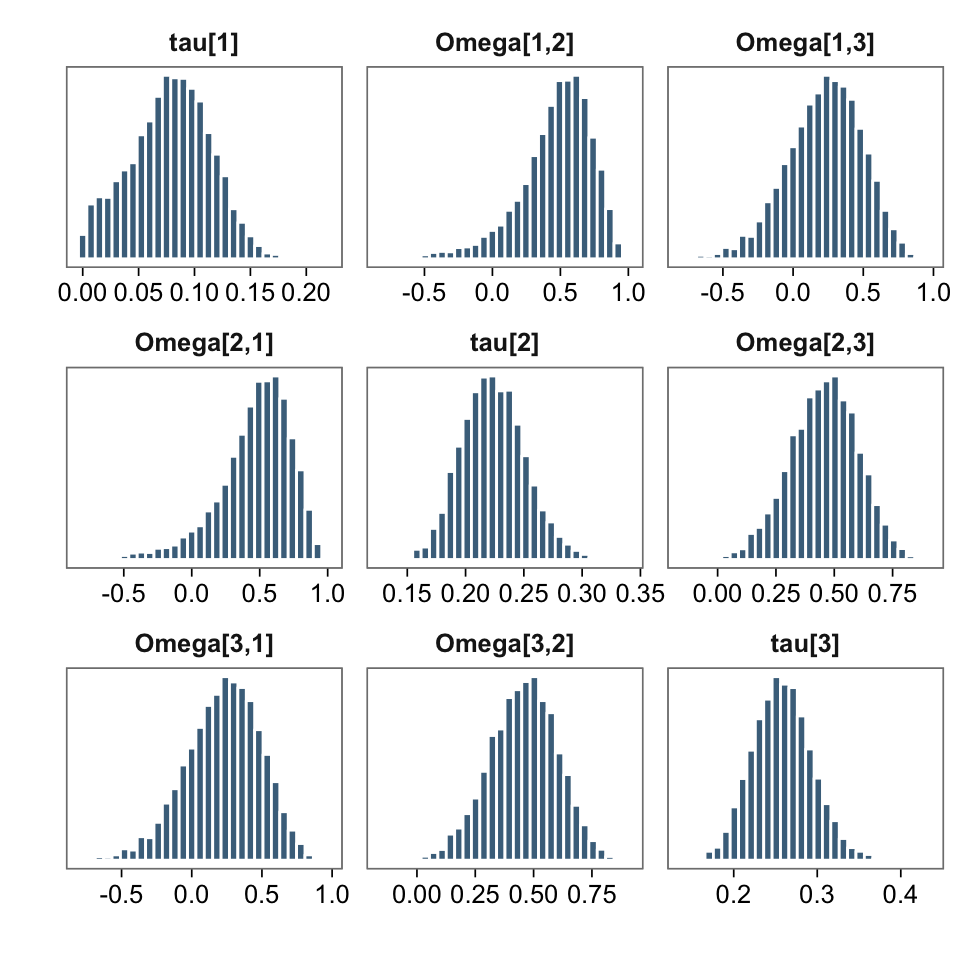
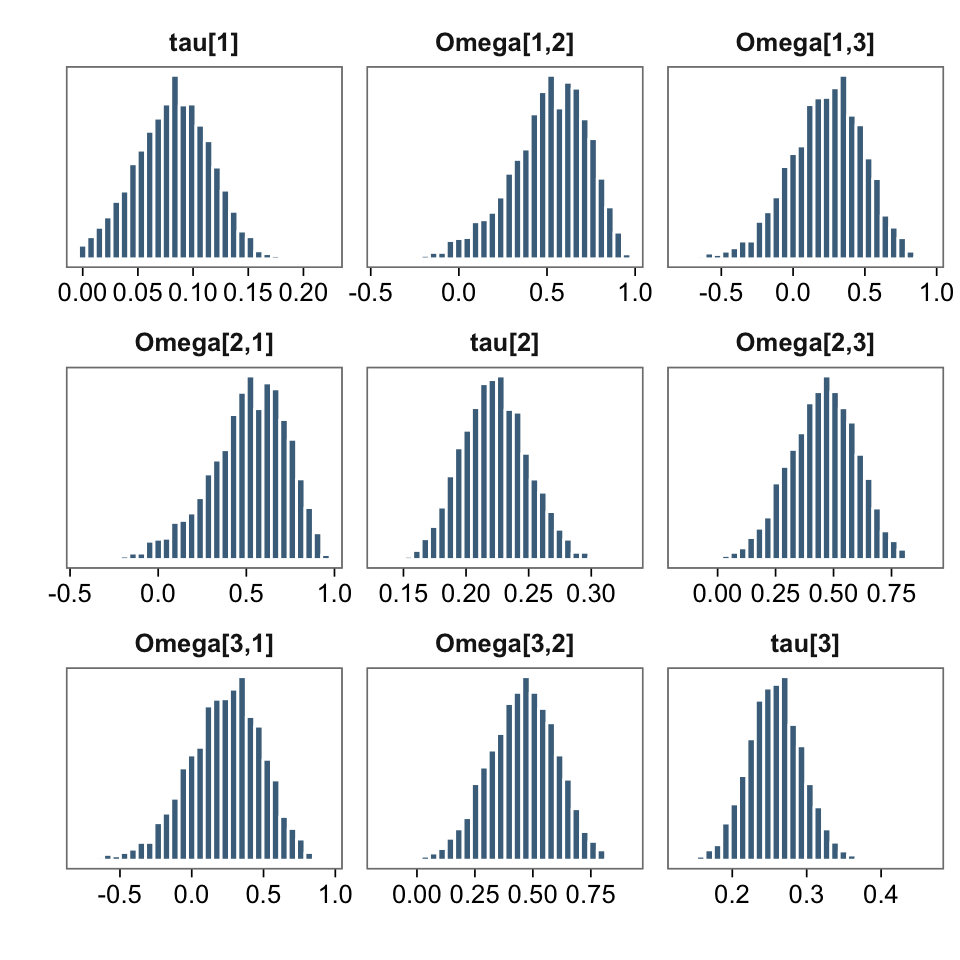
Website

diff --git a/index.html b/index.html
@@ -11,7 +11,7 @@
 
 <meta name="author" content="Matti Vuorre" />
 
-<meta name="date" content="2016-07-12" />
+<meta name="date" content="2016-07-14" />
 
 <title>bmlm: Multilevel Mediation Modeling with Stan</title>
 
@@ -24,6 +24,7 @@
 <script src="site_libs/bootstrap-3.3.5/js/bootstrap.min.js"></script>
 <script src="site_libs/bootstrap-3.3.5/shim/html5shiv.min.js"></script>
 <script src="site_libs/bootstrap-3.3.5/shim/respond.min.js"></script>
+<link href="site_libs/font-awesome-4.5.0/css/font-awesome.min.css" rel="stylesheet" />
 
 
 <style type="text/css">code{white-space: pre;}</style>
@@ -303,9 +304,21 @@ div.tocify {
         <li>
   <a href="index.html">Tutorial</a>
 </li>
+<li>
+  <a href="install.html">Installing</a>
+</li>
+<li>
+  <a href="model.html">Model details</a>
+</li>
       </ul>
       <ul class="nav navbar-nav navbar-right">
-        
+        <li>
+  <a href="https://github.com/mvuorre/bmlm">
+    <span class="fa fa-github fa-lg"></span>
+     
+    Source
+  </a>
+</li>
       </ul>
     </div><!--/.nav-collapse -->
   </div><!--/.container -->
@@ -317,7 +330,7 @@ div.tocify {
 
 <h1 class="title toc-ignore">bmlm: Multilevel Mediation Modeling with Stan</h1>
 <h4 class="author"><em>Matti Vuorre</em></h4>
-<h4 class="date"><em>2016-07-12</em></h4>
+<h4 class="date"><em>2016-07-14</em></h4>
 
 </div>
 
@@ -332,7 +345,10 @@ div.tocify {
 <h2>Pre-requisites</h2>
 <ol style="list-style-type: decimal">
 <li>Please ensure you have the <a href="https://cran.r-project.org/">latest version of R</a> installed.</li>
-<li>This package depends on <a href="http://mc-stan.org/">Stan</a>. Please see <a href="http://mc-stan.org/interfaces/rstan.html">here</a> for how to install the RStan interface.</li>
+<li>This package depends on <a href="http://mc-stan.org/">Stan</a>. Please see <a href="http://mc-stan.org/interfaces/rstan.html">here</a> for how to install the RStan interface.
+<ul>
+<li><a href="install.html">Our RStan installation instructions</a> for Windows (7)</li>
+</ul></li>
 <li>Currently, bmlm is only available on GitHub, and therefore requires <a href="https://cran.r-project.org/web/packages/devtools/index.html">devtools</a> for installation. If you don’t have the devtools package installed in R, install it by running the following code in the R console:</li>
 </ol>
 <div class="sourceCode"><pre class="sourceCode r"><code class="sourceCode r"><span class="kw">install.packages</span>(<span class="st">&quot;devtools&quot;</span>)</code></pre></div>
@@ -543,7 +559,7 @@ fit &lt;-<span class="st"> </span><span class="kw">mlm</span>(<span class="dt">d
            <span class="dt">x =</span> <span class="st">&quot;fwkstrs_cw&quot;</span>,
            <span class="dt">m =</span> <span class="st">&quot;fwkdis_cw&quot;</span>,
            <span class="dt">y =</span> <span class="st">&quot;freldis_cw&quot;</span>,
-           <span class="dt">iter =</span> <span class="dv">4000</span>)</code></pre></div>
+           <span class="dt">iter =</span> <span class="dv">2000</span>)</code></pre></div>
 <p>The main arguments to <code>mlm()</code> are <code>d</code> (a <code>data.frame</code>), which here was set to <code>BLch9</code>. The user also needs to specify which columns contain the variables needed for the mediation model, unless they are already named <code>id</code>, <code>x</code>, <code>m</code>, and <code>y</code>:</p>
 <ul>
 <li><code>id</code> is a column of participant IDs in the provided <code>data.frame</code>.</li>
@@ -551,7 +567,7 @@ fit &lt;-<span class="st"> </span><span class="kw">mlm</span>(<span class="dt">d
 <li><code>m</code> is the mediator variable.</li>
 <li><code>y</code> is the outcome variable.</li>
 </ul>
-<p>There are various additional arguments to the above command. Most notably, the <code>iter = 4000</code> specified that Stan should draw 4000 samples from the posterior distribution, for each MCMC chain. The default is to use 4 chains. Further, Stan’s MCMC algorithms use a portion of the samples as warmup to adjust various underlying parameters. The default of one half was used for this example.</p>
+<p>There are various additional arguments to the above command. Most notably, the <code>iter = 2000</code> specified the number of samples to draw from the posterior distribution, for each MCMC chain. The default is to use 4 chains. Further, Stan’s MCMC algorithms use a portion of the samples as warmup to adjust various underlying parameters. The default of one half was used for this example.</p>
 <p>Stan’s MCMC procedures are very efficient, but estimating the model with large datasets will take a while. This example model (2100 rows of data) takes about 45 seconds on a desktop Mac (8GB RAM, 4ghz Intel i7).</p>
 </div>
 <div id="summarize-fitted-model" class="section level2">
@@ -583,8 +599,8 @@ fit &lt;-<span class="st"> </span><span class="kw">mlm</span>(<span class="dt">d
 <td align="right">0.19</td>
 <td align="right">0.13</td>
 <td align="right">0.25</td>
-<td align="right">1.000000</td>
-<td align="right">4454</td>
+<td align="right">1.00000</td>
+<td align="right">2106</td>
 <td align="right">1</td>
 </tr>
 <tr class="even">
@@ -594,8 +610,8 @@ fit &lt;-<span class="st"> </span><span class="kw">mlm</span>(<span class="dt">d
 <td align="right">0.15</td>
 <td align="right">0.10</td>
 <td align="right">0.20</td>
-<td align="right">1.000000</td>
-<td align="right">4000</td>
+<td align="right">1.00000</td>
+<td align="right">2077</td>
 <td align="right">1</td>
 </tr>
 <tr class="odd">
@@ -603,10 +619,10 @@ fit &lt;-<span class="st"> </span><span class="kw">mlm</span>(<span class="dt">d
 <td align="right">0.10</td>
 <td align="right">0.02</td>
 <td align="right">0.10</td>
-<td align="right">0.07</td>
+<td align="right">0.06</td>
 <td align="right">0.14</td>
-<td align="right">1.000000</td>
-<td align="right">8000</td>
+<td align="right">1.00000</td>
+<td align="right">4000</td>
 <td align="right">1</td>
 </tr>
 <tr class="even">
@@ -616,8 +632,8 @@ fit &lt;-<span class="st"> </span><span class="kw">mlm</span>(<span class="dt">d
 <td align="right">0.05</td>
 <td align="right">0.03</td>
 <td align="right">0.08</td>
-<td align="right">1.000000</td>
-<td align="right">3138</td>
+<td align="right">1.00000</td>
+<td align="right">1902</td>
 <td align="right">1</td>
 </tr>
 <tr class="odd">
@@ -626,9 +642,9 @@ fit &lt;-<span class="st"> </span><span class="kw">mlm</span>(<span class="dt">d
 <td align="right">0.03</td>
 <td align="right">0.16</td>
 <td align="right">0.12</td>
-<td align="right">0.20</td>
-<td align="right">1.000000</td>
-<td align="right">5791</td>
+<td align="right">0.21</td>
+<td align="right">1.00000</td>
+<td align="right">4000</td>
 <td align="right">1</td>
 </tr>
 <tr class="even">
@@ -638,8 +654,8 @@ fit &lt;-<span class="st"> </span><span class="kw">mlm</span>(<span class="dt">d
 <td align="right">0.34</td>
 <td align="right">0.23</td>
 <td align="right">0.49</td>
-<td align="right">1.000000</td>
-<td align="right">3818</td>
+<td align="right">1.00000</td>
+<td align="right">1977</td>
 <td align="right">1</td>
 </tr>
 <tr class="odd">
@@ -649,19 +665,19 @@ fit &lt;-<span class="st"> </span><span class="kw">mlm</span>(<span class="dt">d
 <td align="right">0.03</td>
 <td align="right">0.01</td>
 <td align="right">0.04</td>
-<td align="right">0.997375</td>
-<td align="right">3018</td>
+<td align="right">0.99925</td>
+<td align="right">1604</td>
 <td align="right">1</td>
 </tr>
 <tr class="even">
 <td align="left">corrab</td>
 <td align="right">0.45</td>
-<td align="right">0.15</td>
+<td align="right">0.14</td>
 <td align="right">0.46</td>
-<td align="right">0.19</td>
+<td align="right">0.20</td>
 <td align="right">0.69</td>
-<td align="right">0.997375</td>
-<td align="right">2733</td>
+<td align="right">0.99925</td>
+<td align="right">1229</td>
 <td align="right">1</td>
 </tr>
 </tbody>
@@ -729,13 +745,13 @@ Varying effects standard deviations (tau) and correlations (Omega).
 <h2>Person-specific effects</h2>
 <p>It is also possible to investigate person-specific parameters. These exist with the same name as the average-level parameters, but have “u_” appended to them.</p>
 <div class="sourceCode"><pre class="sourceCode r"><code class="sourceCode r"><span class="kw">head</span>(<span class="kw">mlm_summary</span>(fit, <span class="dt">pars =</span> <span class="st">&quot;u_c&quot;</span>))</code></pre></div>
-<pre><code>##   Parameter Mean   SD Median ci_lwr ci_upr    pprob n_eff Rhat
-## 1    u_c[1] 0.12 0.08   0.11  -0.01   0.27 0.946000  8000    1
-## 2    u_c[2] 0.10 0.09   0.10  -0.04   0.25 0.896250  8000    1
-## 3    u_c[3] 0.11 0.08   0.11  -0.01   0.25 0.937000  8000    1
-## 4    u_c[4] 0.37 0.13   0.36   0.18   0.60 0.999875  8000    1
-## 5    u_c[5] 0.09 0.09   0.10  -0.07   0.25 0.859750  8000    1
-## 6    u_c[6] 0.09 0.08   0.09  -0.06   0.22 0.871875  8000    1</code></pre>
+<pre><code>##   Parameter Mean   SD Median ci_lwr ci_upr   pprob n_eff Rhat
+## 1    u_c[1] 0.12 0.08   0.12  -0.01   0.27 0.94500  4000    1
+## 2    u_c[2] 0.10 0.08   0.10  -0.04   0.25 0.89400  4000    1
+## 3    u_c[3] 0.11 0.08   0.11  -0.02   0.25 0.93225  2796    1
+## 4    u_c[4] 0.38 0.13   0.36   0.18   0.61 1.00000  4000    1
+## 5    u_c[5] 0.09 0.09   0.10  -0.07   0.25 0.85350  4000    1
+## 6    u_c[6] 0.09 0.08   0.09  -0.05   0.23 0.87625  4000    1</code></pre>
 <div class="sourceCode"><pre class="sourceCode r"><code class="sourceCode r"><span class="kw">mlm_pars_plot</span>(fit, <span class="dt">pars =</span> <span class="st">&quot;u_cp&quot;</span>, <span class="dt">type =</span> <span class="st">&quot;coef&quot;</span>, <span class="dt">level =</span> .<span class="dv">75</span>) +<span class="st"> </span>
 <span class="st">    </span><span class="kw">theme</span>(<span class="dt">axis.text.y =</span> <span class="kw">element_blank</span>(),
           <span class="dt">axis.ticks.y =</span> <span class="kw">element_blank</span>())</code></pre></div>
@@ -758,123 +774,7 @@ Participant-specific c’ path values with 75% Credible Intervals.
 <div class="sourceCode"><pre class="sourceCode r"><code class="sourceCode r">pars &lt;-<span class="st"> </span><span class="kw">c</span>(<span class="st">&quot;a&quot;</span>, <span class="st">&quot;ab&quot;</span>, <span class="st">&quot;cp&quot;</span>, <span class="st">&quot;c&quot;</span>, <span class="st">&quot;corrab&quot;</span>)
 <span class="kw">traceplot</span>(fit, <span class="dt">pars =</span> pars)</code></pre></div>
 <p><img src="index_files/figure-html/unnamed-chunk-18-1.png" width="576" /></p>
-<p>Further modification of the model is possible through modifying the Stan code underlying <code>mlm()</code>. To obtain the Stan code for the multilevel mediation model, run <code>get_stancode()</code></p>
-<div class="sourceCode"><pre class="sourceCode r"><code class="sourceCode r"><span class="kw">cat</span>(<span class="kw">get_stancode</span>(fit))  <span class="co"># Wrap inside cat() for nicer printing</span></code></pre></div>
-<pre><code>## // Stan code for multilevel mediation model
-## 
-## data {
-##     int&lt;lower=1&gt; N;             // Number of observations
-##     int&lt;lower=1&gt; J;             // Number of participants
-##     int&lt;lower=1,upper=J&gt; id[N]; // Participant IDs
-##     vector[N] X;                // Manipulated variable
-##     vector[N] M;                // Mediator
-##     vector[N] Y;                // Outcome
-##     real prior_scale;           // Prior scale for regression params
-##     real intrcpt_scale;         // Prior scale for intercepts
-## }
-## transformed data{
-##     real y_mean;                // Mean of Y
-##     int K;                      // Number of predictors
-##     y_mean = mean(Y);
-##     K = 5;
-## }
-## parameters{
-##     // Regression Y on X and M
-##     real dy;                    // Intercept
-##     real cp;                    // X to Y effect
-##     real b;                     // M to Y effect
-##     real&lt;lower=0&gt; sigma_y;      // Residual
-##     // Regression M on X
-##     real dm;                    // Intercept
-##     real a;                     // X to M effect
-##     real&lt;lower=0&gt; sigma_m;      // Residual
-## 
-##     // Correlation matrix and SDs of participant-level varying effects
-##     cholesky_factor_corr[K] L_Omega;
-##     vector&lt;lower=0&gt;[K] tau;
-## 
-##     // Standardized varying effects
-##     matrix[K, J] z_U;
-## }
-## transformed parameters {
-##     // Participant-level varying effects obtained from vectorized and
-##     // standardized z_U matrix
-##     matrix[J, K] U;
-## 
-##     // Sample varying effects from Cholesky factorized covariance matrix
-##     // diag_pre_multiply(tau, L_Omega) = Cholesky covariance matrix
-##     U = (diag_pre_multiply(tau, L_Omega) * z_U)&#39;;
-## 
-## }
-## model {
-##     // Means of linear models
-##     vector[N] mu_y;
-##     vector[N] mu_m;
-##     // Cholesky factor of covariance matrix
-##     matrix[K, K] L_Sigma;
-##     // Regression parameter priors
-##     dy ~ normal(0, intrcpt_scale);
-##     dm ~ normal(0, intrcpt_scale);
-##     a ~ normal(0, prior_scale);
-##     b ~ normal(0, prior_scale);
-##     cp ~ normal(0, prior_scale);
-##     // RE SDs and correlation matrix
-##     tau[1] ~ cauchy(0, 1);      // u_cp
-##     tau[2] ~ cauchy(0, 1);      // u_b
-##     tau[3] ~ cauchy(0, 1);      // u_a
-##     tau[4] ~ cauchy(0, 1);      // u_intrcpt_y
-##     tau[5] ~ cauchy(0, 1);      // u_intrcpt_m
-##     L_Omega ~ lkj_corr_cholesky(2);
-##     // Allow vectorized sampling of varying effects via stdzd z_U
-##     to_vector(z_U) ~ normal(0, 1);
-## 
-##     // Regressions (No intercepts: assume within-person deviated variables)
-##     for (n in 1:N){
-##         mu_y[n] = (cp + U[id[n], 1]) * X[n] +
-##                   (b + U[id[n], 2]) * M[n] +
-##                   (dy + U[id[n], 4]);
-##         mu_m[n] = (a + U[id[n], 3]) * X[n] +
-##                   (dm + U[id[n], 5]);
-##     }
-## 
-##     // Data model
-##     Y ~ normal(mu_y, sigma_y);
-##     M ~ normal(mu_m, sigma_m);
-## }
-## generated quantities{
-##     // Transform Cholesky factorized correlation matrix to corrmat and covmat
-##     matrix[K, K] Omega;         // Correlation matrix
-##     matrix[K, K] Sigma;         // Covariance matrix
-## 
-##     // Average mediation parameters
-##     real covab;                 // a-b covariance
-##     real corrab;                // a-b correlation
-##     real ab;                    // Indirect effect
-##     real c;                     // Total effect
-##     real pme;                   // % mediated effect
-## 
-##     // Person-specific mediation parameters
-##     vector[J] u_ab;
-##     vector[J] u_cp;
-##     vector[J] u_c;
-##     vector[J] u_pme;
-## 
-##     Omega = L_Omega * L_Omega&#39;;
-##     Sigma = quad_form_diag(Omega, tau);
-## 
-##     covab = Sigma[3,2];
-##     corrab = Omega[3,2];
-##     ab = a*b + covab;
-##     c = cp + a*b + covab;
-##     pme = ab / c;
-## 
-##     for (j in 1:J) {
-##         u_ab[j] = (a + U[j, 3]) * (b + U[j, 2]);
-##         u_cp[j] = cp + U[j, 1];
-##         u_c[j] = u_cp[j] + u_ab[j];
-##         u_pme[j] = u_ab[j] / u_c[j];
-##     }
-## }</code></pre>
+<p>Further modification of the model is possible through modifying the Stan code underlying <code>mlm()</code>. See <a href="model.html">here</a> for further details.</p>
 </div>
 <div id="references" class="section level1 unnumbered">
 <h1>References</h1>
